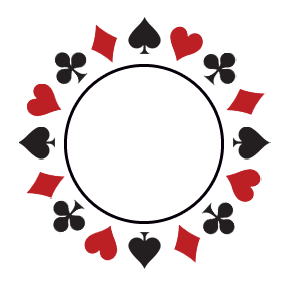
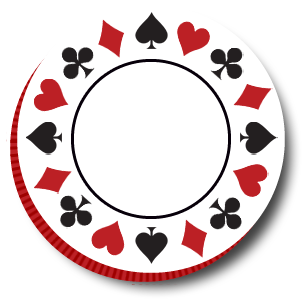
added red edge to chip button and a drop shadow

Changed region(s): [[0.0312, 0.0312, 1.0, 0.9688], [0.125, 0.1875, 0.1562, 0.2188]]

diff --git a/client/src/components/ChipButton/ChipButton.css b/client/src/components/ChipButton/ChipButton.css
@@ -21,7 +21,7 @@
     position: absolute;
     font-size: 10px;
     max-width: 25%;
-    top: 50%;
+    top: 47%;
     left: 50%;
     transform: translate(-50%, -50%);
   }
